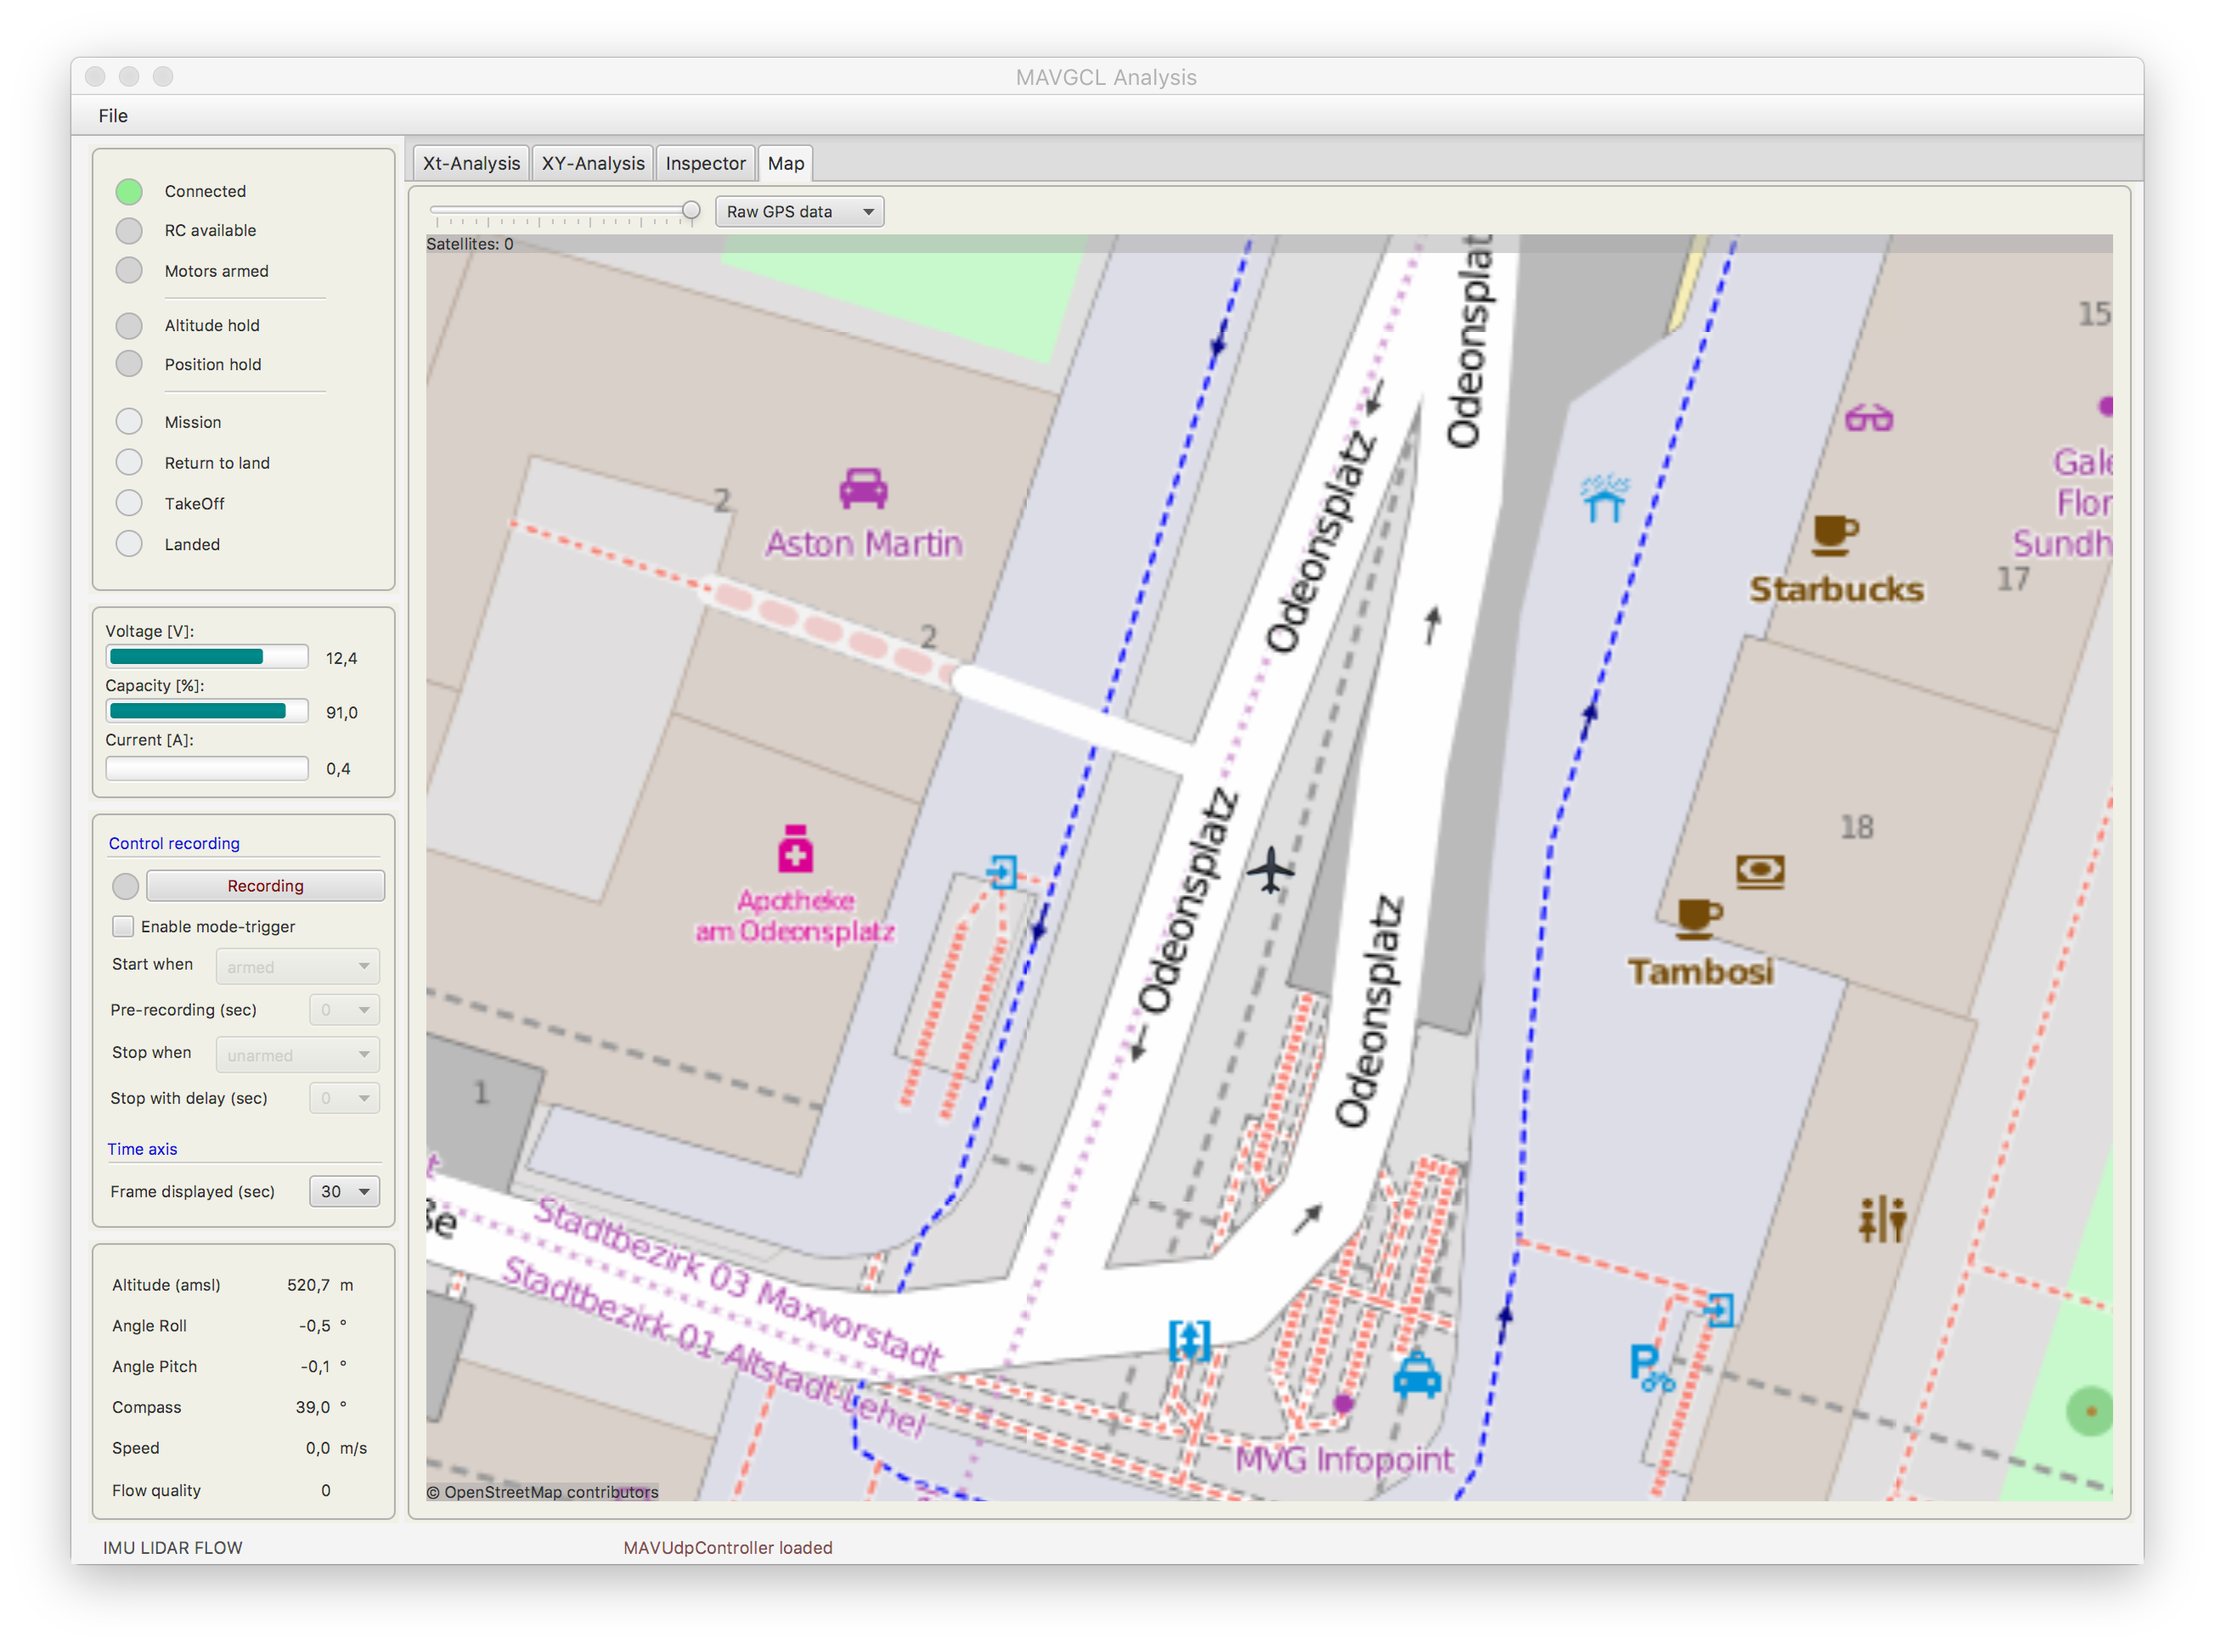
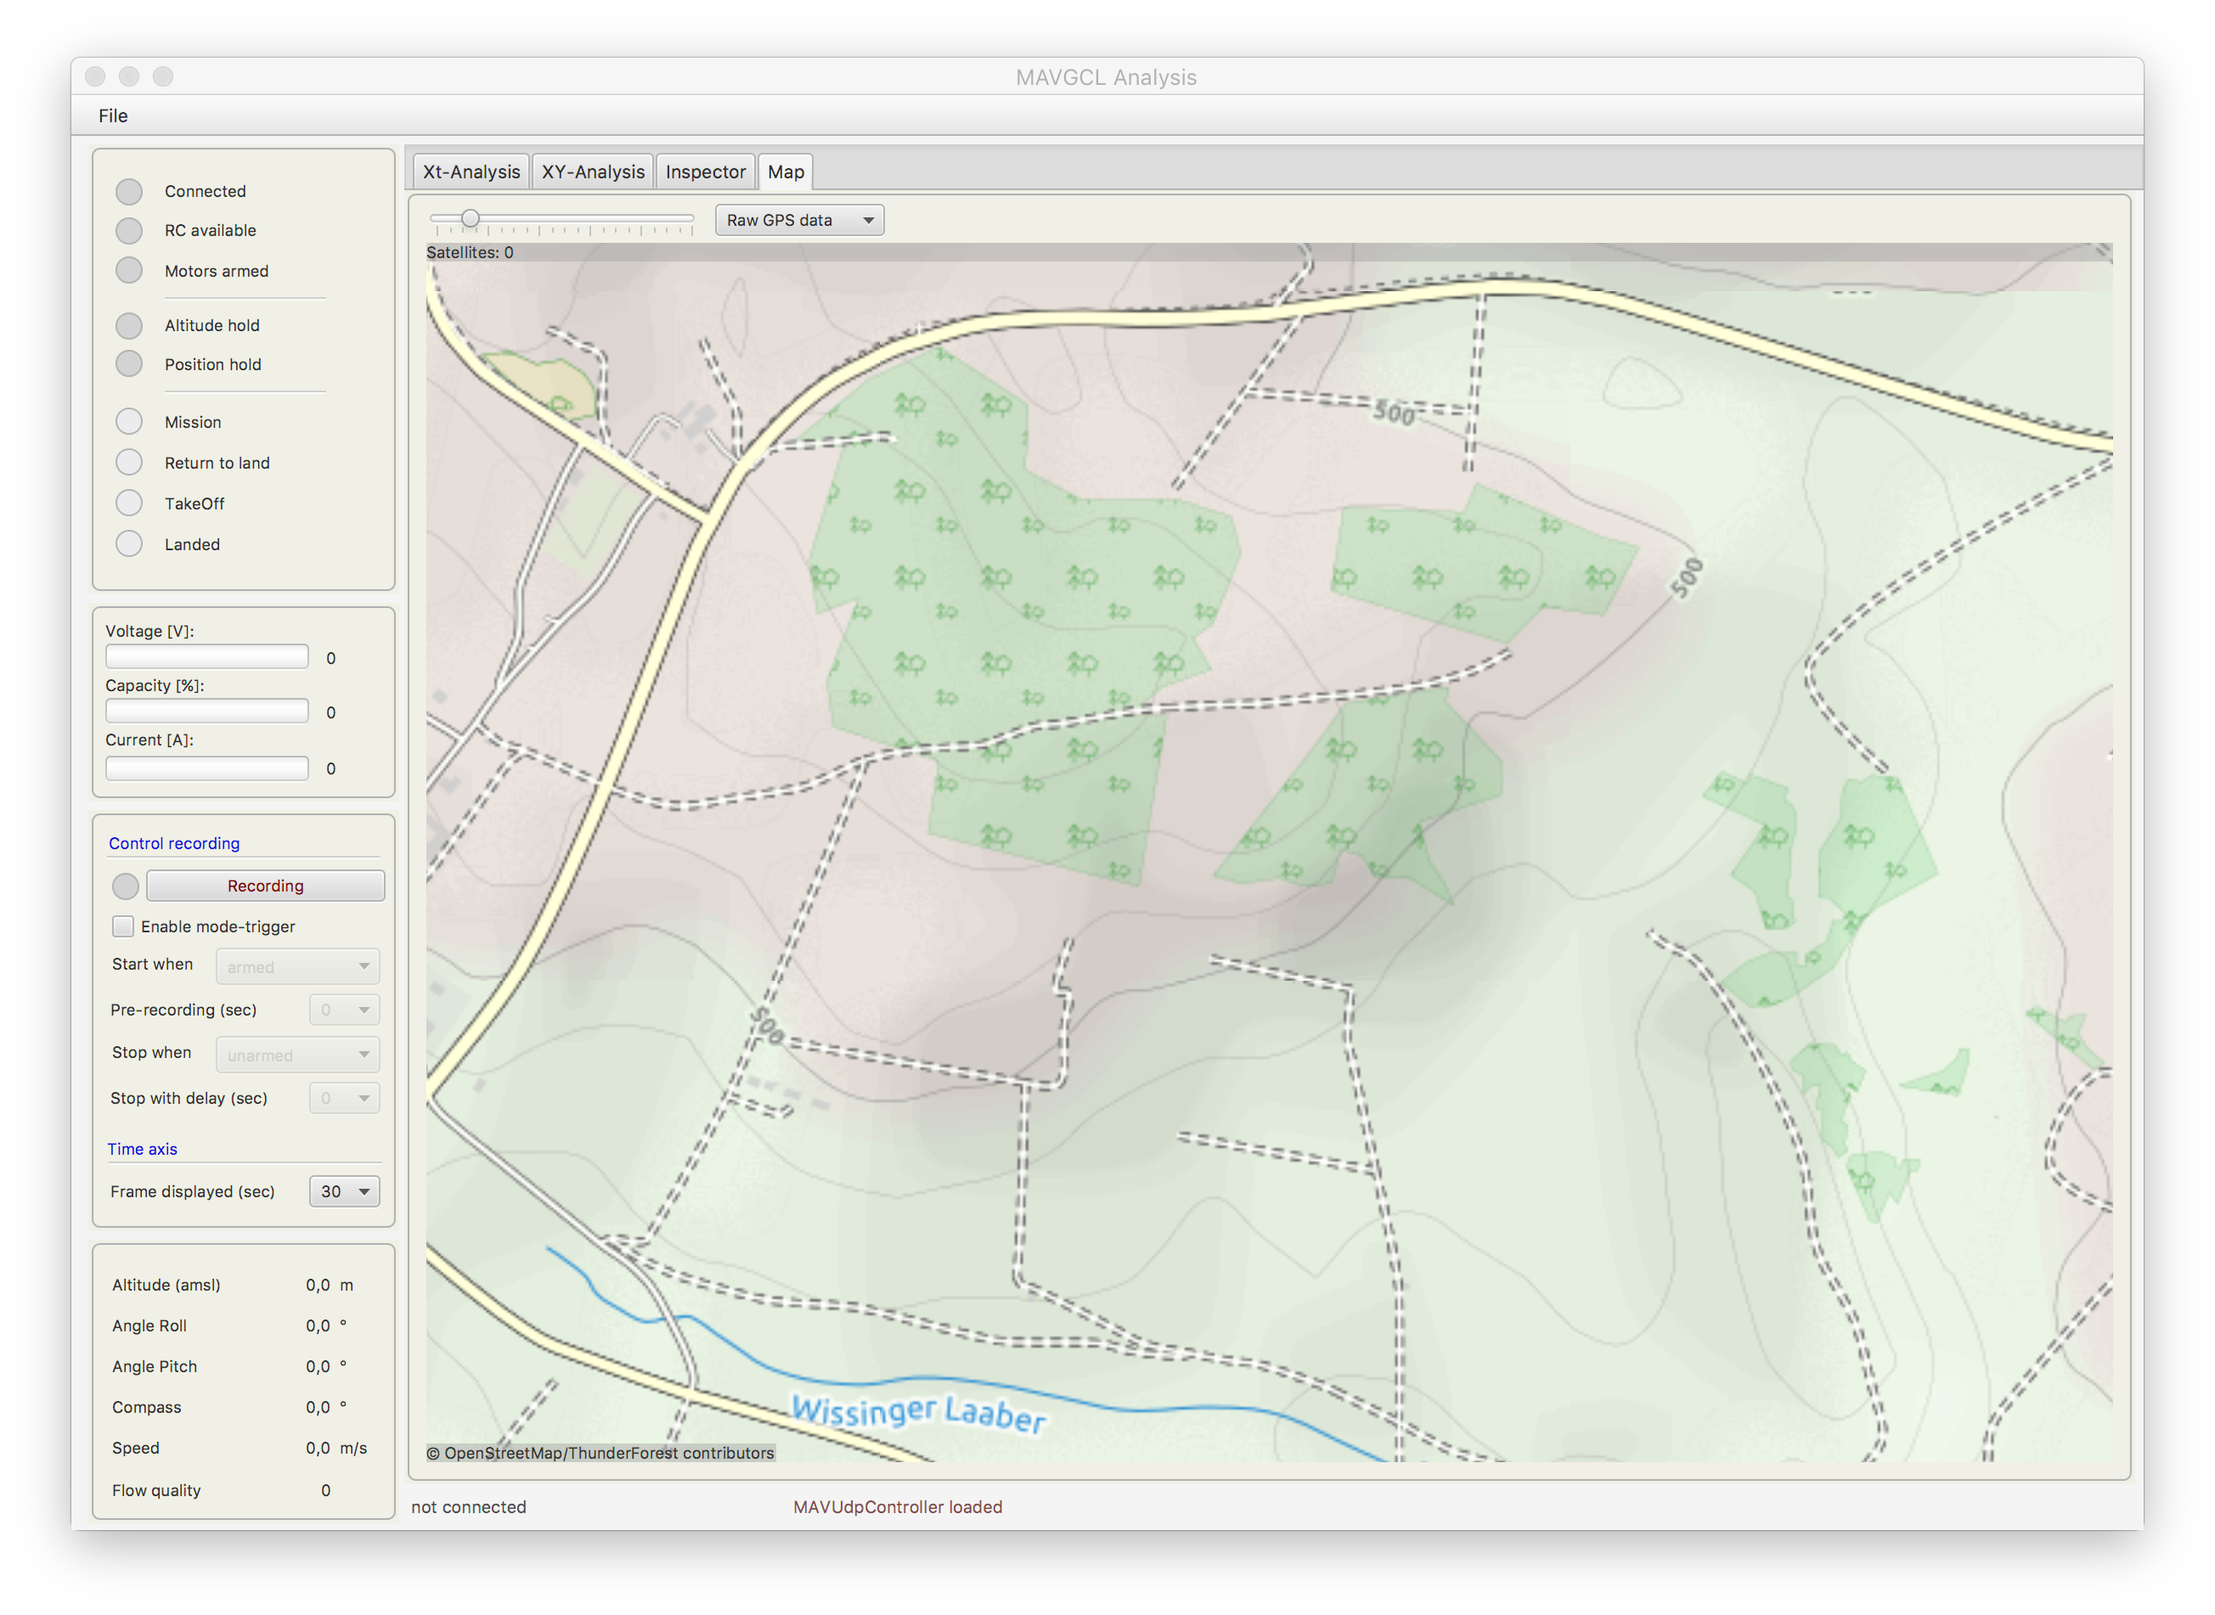
TileProvider ThunderForest as default

diff --git a/MAVGCL/src/com/comino/openmapfx/ext/ThunderForestTileProvider.java b/MAVGCL/src/com/comino/openmapfx/ext/ThunderForestTileProvider.java
@@ -1,0 +1,76 @@
+/*
+ * Copyright (c) 2014, 2015, OpenMapFX and LodgON
+ * All rights reserved.
+ *
+ * Redistribution and use in source and binary forms, with or without
+ * modification, are permitted provided that the following conditions are met:
+ *     * Redistributions of source code must retain the above copyright
+ * notice, this list of conditions and the following disclaimer.
+ *     * Redistributions in binary form must reproduce the above copyright
+ * notice, this list of conditions and the following disclaimer in the
+ * documentation and/or other materials provided with the distribution.
+ *     * Neither the name of LodgON, OpenMapFX, any associated website, nor the
+ * names of its contributors may be used to endorse or promote products
+ * derived from this software without specific prior written permission.
+ *
+ * THIS SOFTWARE IS PROVIDED BY THE COPYRIGHT HOLDERS AND CONTRIBUTORS "AS IS" AND
+ * ANY EXPRESS OR IMPLIED WARRANTIES, INCLUDING, BUT NOT LIMITED TO, THE IMPLIED
+ * WARRANTIES OF MERCHANTABILITY AND FITNESS FOR A PARTICULAR PURPOSE ARE
+ * DISCLAIMED. IN NO EVENT SHALL LODGON BE LIABLE FOR ANY
+ * DIRECT, INDIRECT, INCIDENTAL, SPECIAL, EXEMPLARY, OR CONSEQUENTIAL DAMAGES
+ * (INCLUDING, BUT NOT LIMITED TO, PROCUREMENT OF SUBSTITUTE GOODS OR SERVICES;
+ * LOSS OF USE, DATA, OR PROFITS; OR BUSINESS INTERRUPTION) HOWEVER CAUSED AND
+ * ON ANY THEORY OF LIABILITY, WHETHER IN CONTRACT, STRICT LIABILITY, OR TORT
+ * (INCLUDING NEGLIGENCE OR OTHERWISE) ARISING IN ANY WAY OUT OF THE USE OF THIS
+ * SOFTWARE, EVEN IF ADVISED OF THE POSSIBILITY OF SUCH DAMAGE.
+ */
+package com.comino.openmapfx.ext;
+
+import java.util.LinkedList;
+import java.util.List;
+
+import org.lodgon.openmapfx.core.TileProvider;
+import org.lodgon.openmapfx.core.TileType;
+
+/**
+ *
+ * @author Geoff Capper
+ */
+public class ThunderForestTileProvider implements TileProvider {
+
+    private static final String providerName = "ThunderForest";
+
+    private static final List<TileType> tileTypes = new LinkedList<>();
+    static {
+        tileTypes.add(new TileType("Terrain", "http://tile.thunderforest.com/outdoors/", "© OpenStreetMap/ThunderForest contributors"));
+    }
+
+    public ThunderForestTileProvider() {
+    }
+
+    @Override
+    public String getProviderName() {
+        return providerName;
+    }
+
+    @Override
+    public List<TileType> getTileTypes() {
+        return tileTypes;
+    }
+
+    @Override
+    public TileType getDefaultType() {
+        return tileTypes.get(0);
+    }
+
+    @Override
+    public String getAttributionNotice() {
+        return "© OpenStreetMap/ThunderForest contributors";
+    }
+
+    @Override
+    public String toString() {
+        return getProviderName();
+    }
+
+}

diff --git a/MAVGCL/src/com/comino/flight/tabs/openmap/MAVOpenMapTab.java b/MAVGCL/src/com/comino/flight/tabs/openmap/MAVOpenMapTab.java
@@ -34,6 +34,7 @@ import com.comino.msp.utils.ExecutorService;
 import com.comino.openmapfx.ext.CanvasLayer;
 import com.comino.openmapfx.ext.CanvasLayerPaintListener;
 import com.comino.openmapfx.ext.InformationLayer;
+import com.comino.openmapfx.ext.ThunderForestTileProvider;
 
 import javafx.beans.value.ChangeListener;
 import javafx.beans.value.ObservableValue;
@@ -174,7 +175,7 @@ public class MAVOpenMapTab extends BorderPane {
 
 	@FXML
 	private void initialize() {
-		DefaultBaseMapProvider provider = new DefaultBaseMapProvider();
+		DefaultBaseMapProvider provider = new DefaultBaseMapProvider(new ThunderForestTileProvider());
 
 		gpssource.getItems().addAll(GPS_SOURCES);
 		gpssource.getSelectionModel().select(1);
@@ -187,7 +188,7 @@ public class MAVOpenMapTab extends BorderPane {
 		mapPane.setClip(clip);
 		clip.heightProperty().bind(mapPane.heightProperty());
 		clip.widthProperty().bind(mapPane.widthProperty());
-		map.setCenter(48.142899,11.577723);
+		map.setCenter(49.142899,11.577723);
 		map.setZoom(20);
 
 		positionLayer = new PositionLayer(new Image(getClass().getResource("airplane.png").toString()));
@@ -195,7 +196,7 @@ public class MAVOpenMapTab extends BorderPane {
 		map.getLayers().add(positionLayer);
 		map.getLayers().add(homeLayer);
 
-		positionLayer.updatePosition(48.142899,11.577723);
+		positionLayer.updatePosition(49.142899,11.577723);
 
 		licenceLayer = new LicenceLayer(provider);
 		map.getLayers().add(licenceLayer);
